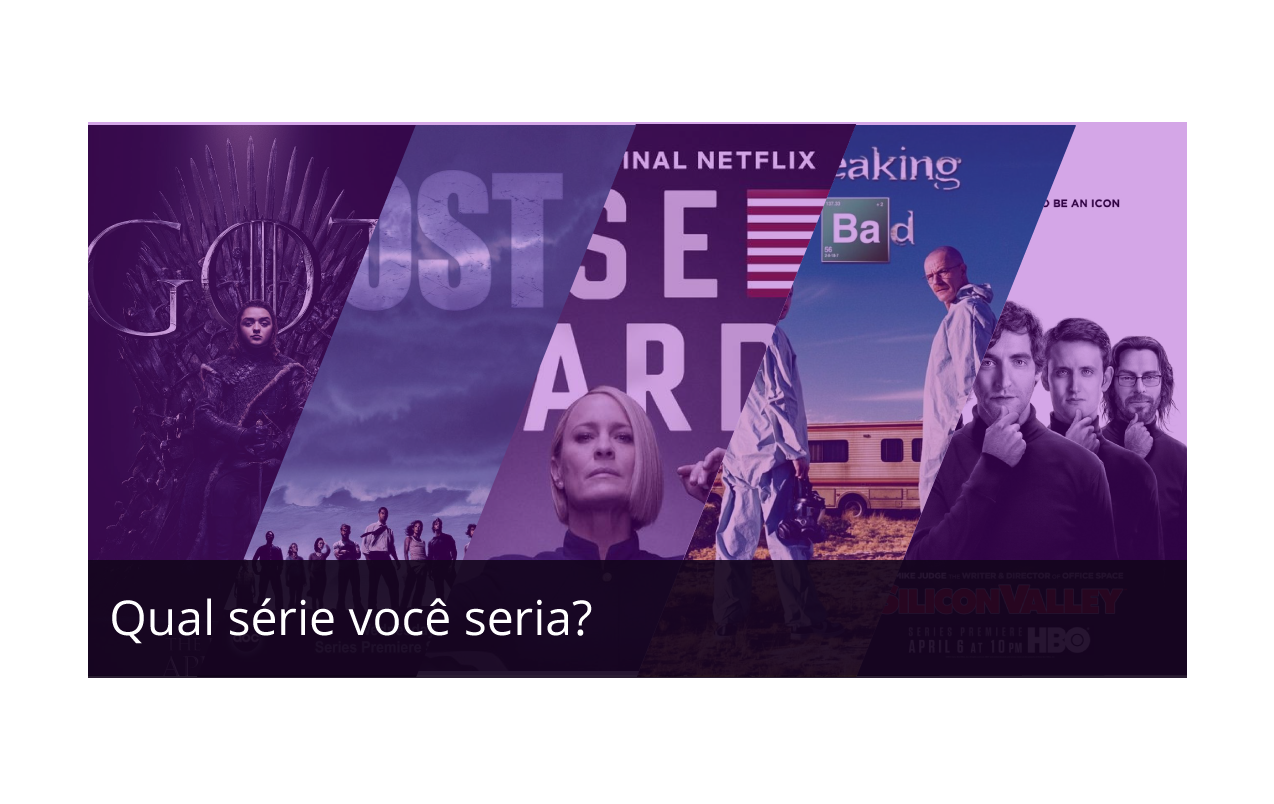
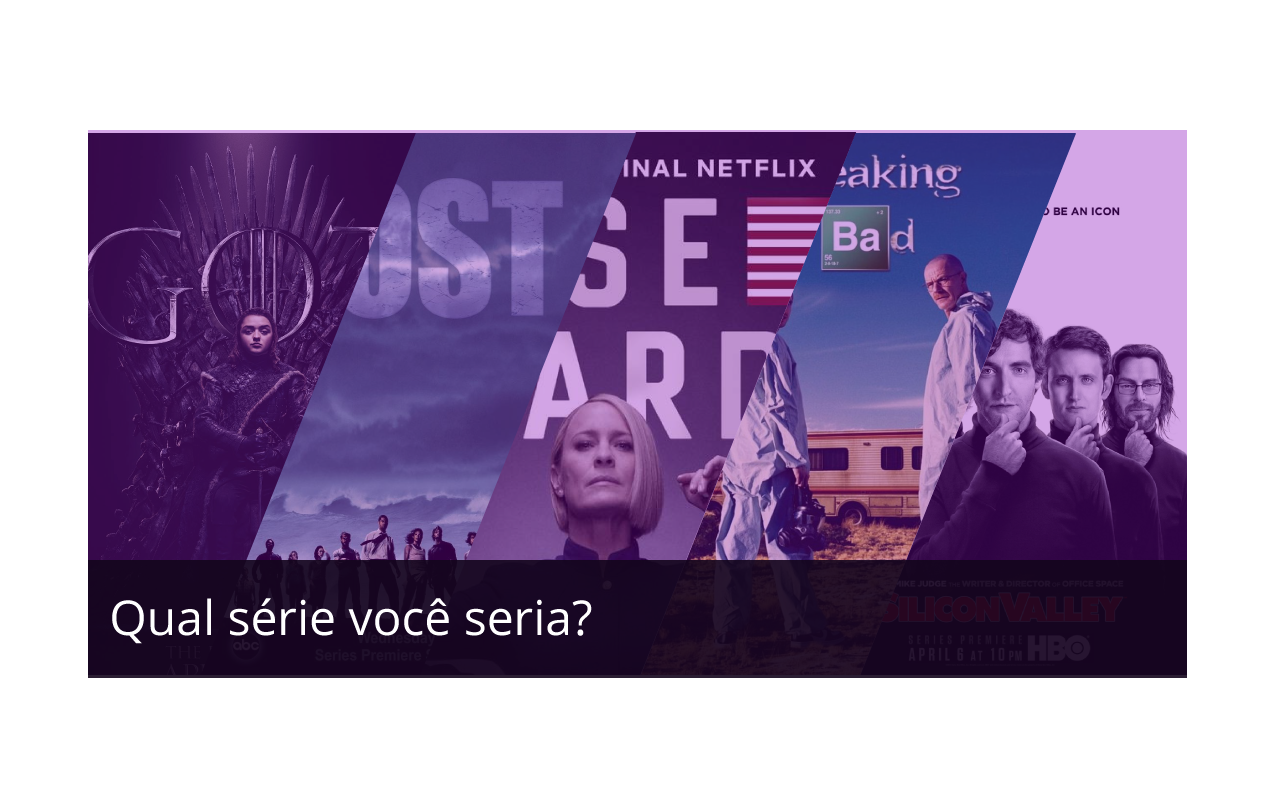
Create a start page

Changed region(s): [[0.0612, 0.1244, 0.949, 0.7152], [0.7959, 0.2488, 0.8878, 0.2799]]

diff --git a/css/main.css b/css/main.css
@@ -22,6 +22,40 @@ html, body {
     color: #fff;
 }
 
+.indexCard {
+    display: flex;
+    justify-content: flex-end;
+
+    min-height: 400px;
+    width: 50vw;
+    padding: 0;
+
+    background-image: url("../images/startQuiz.png");
+    background-position: center;
+    background-size: cover;
+    background-repeat: no-repeat;
+}
+
+.indexFooter {
+    display: flex;
+    flex-flow: row wrap;
+    align-items: center;
+    justify-content: space-around;
+
+    width: 100%;
+    height: 100px;
+
+    background-color: #13051ce6;
+}
+
+.indexFooter button {
+    max-width: 100%;
+}
+
+.indexText {
+    font-size: 32px;
+}
+
 button {
     width: 200px;
     height: 50px;

diff --git a/css/result.css b/css/result.css
@@ -36,16 +36,15 @@
 }
 
 button.share {
-    width: 115px;
+    width: 150px;
     max-width: 100%;
-    height: 25px;
     margin: 10px;
-    padding-left: 20px;
+    padding-left: 25px;
 
-    font-size: 12px;
+    font-size: 14px;
 
     background-position: 5px center;
-    background-size: 14px;
+    background-size: 20px;
     background-repeat: no-repeat;
 }
 

diff --git a/index.php b/index.php
@@ -6,29 +6,13 @@ if(isset($_GET["winner"])) {
 require_once("includes/header.php"); 
 ?>
 
-<form class="siteCard" id="testForm" action="result.php" method="post">
-    <? foreach($questions as $questionKey => $question) {
-        shuffle($answers[$questionKey]);
-        echo '<div class="questionTab">
-        <div class="progressBar">
-            <div class="progress progress'.$questionKey.'"></div>
-        </div>
-            <h2 class="questionTitle">'.$question.'</h2>
-            <div class="answersContainer">';
-                foreach($answers[$questionKey] as $answer) {
-                    echo '<label class="answer">
-                        <input type="radio" value="'.$answer[0].'" name="'.$questionKey.'" />
-                        <span class="checkmark"></span>
-                        <span class="aswertText">'.$answer[1].'</span>
-                    </label>';
-                }
-        echo '</div>
-        </div>';
-    } ?>
-    <div class="buttons">
-        <button id="prevButton" type="button">Voltar</button>
-        <button id="nextButton" type="button">Avançar</button>
+<div class="siteCard indexCard">
+    <div class="indexFooter">
+        <span class="indexText">Qual série você seria?</span>
+        <a href="questions.php">
+            <button>Iniciar Quiz</button>
+        </a>
     </div>
-</form>
+</div>
 
 <? require_once("includes/footer.php"); ?>

diff --git a/questions.php b/questions.php
@@ -1,0 +1,30 @@
+<?php 
+require_once("includes/header.php"); 
+?>
+
+<form class="siteCard" id="testForm" action="result.php" method="post">
+    <? foreach($questions as $questionKey => $question) {
+        shuffle($answers[$questionKey]);
+        echo '<div class="questionTab">
+        <div class="progressBar">
+            <div class="progress progress'.$questionKey.'"></div>
+        </div>
+            <h2 class="questionTitle">'.$question.'</h2>
+            <div class="answersContainer">';
+                foreach($answers[$questionKey] as $answer) {
+                    echo '<label class="answer">
+                        <input type="radio" value="'.$answer[0].'" name="'.$questionKey.'" />
+                        <span class="checkmark"></span>
+                        <span class="aswertText">'.$answer[1].'</span>
+                    </label>';
+                }
+        echo '</div>
+        </div>';
+    } ?>
+    <div class="buttons">
+        <button id="prevButton" type="button">Voltar</button>
+        <button id="nextButton" type="button">Avançar</button>
+    </div>
+</form>
+
+<? require_once("includes/footer.php"); ?>
